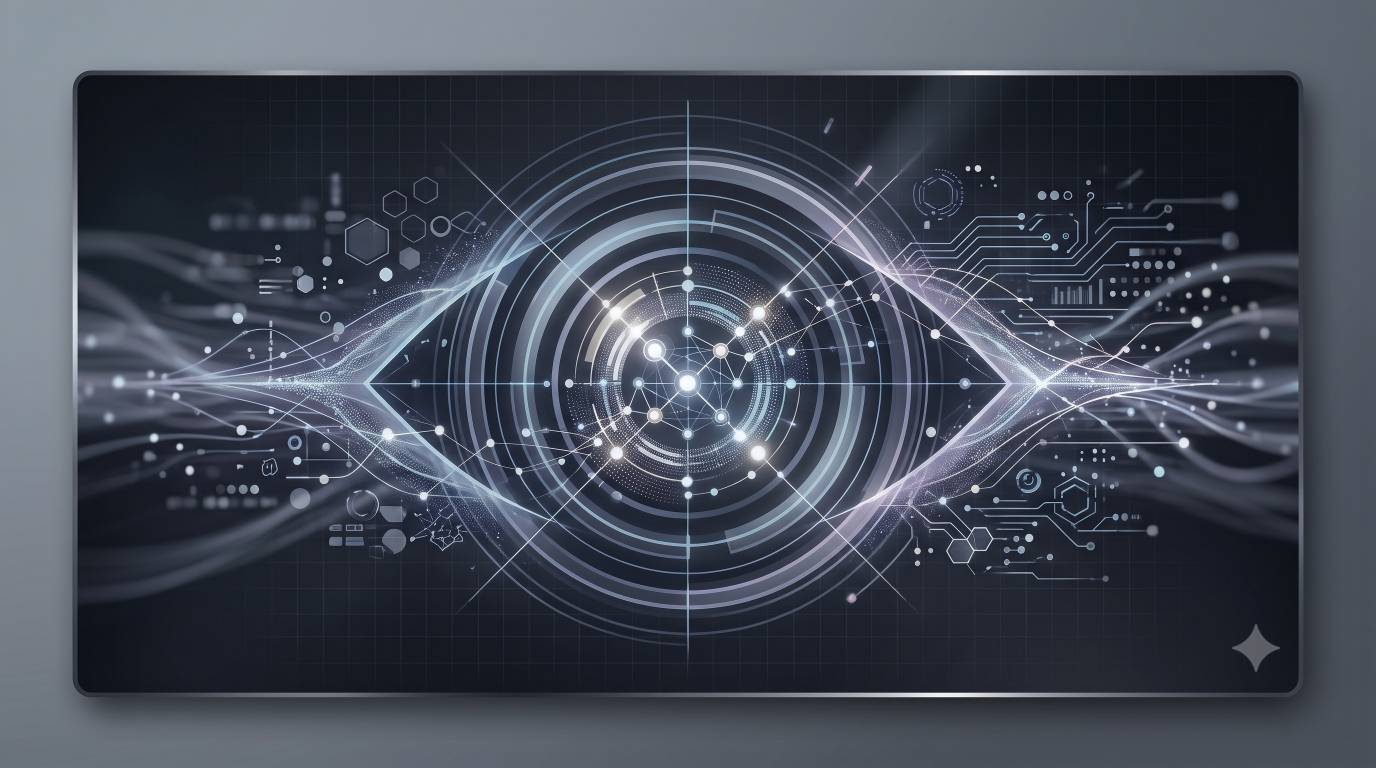
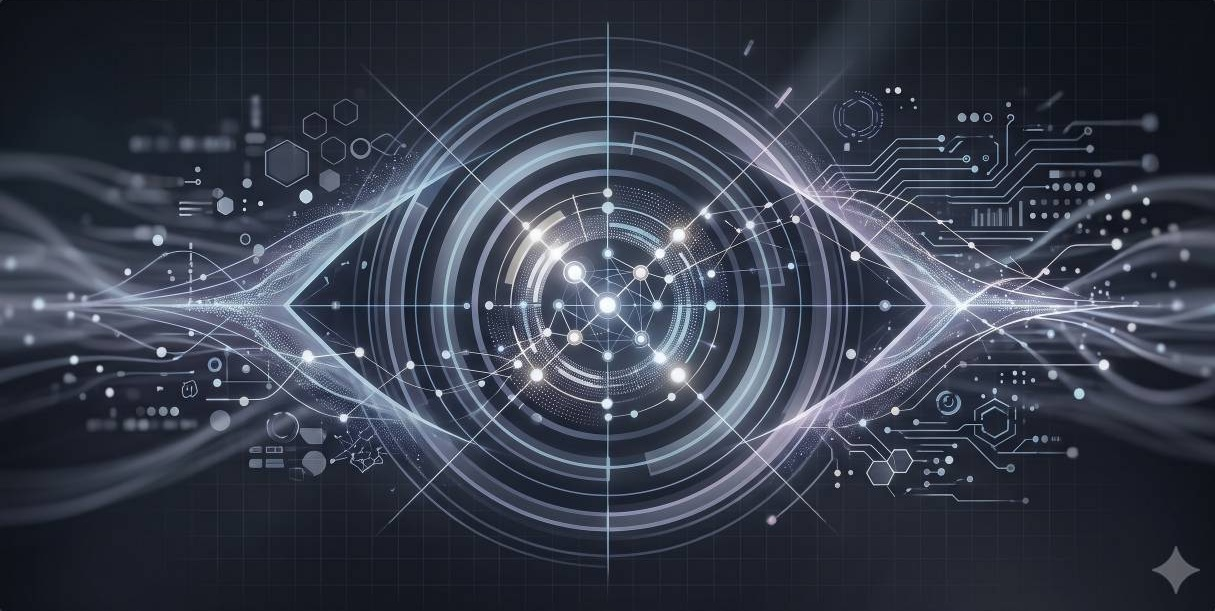
fix: zoom Vision AI cover to fill home card and bust cache

diff --git a/app/page.tsx b/app/page.tsx
@@ -38,7 +38,7 @@ export default async function HomePage() {
                   >
                     {/* eslint-disable-next-line @next/next/no-img-element */}
                     <img
-                      src={`${publicCoverUrl(item.slug, item.cover)}?v=20260827a`}
+                      src={`${publicCoverUrl(item.slug, item.cover)}?v=20260907a`}
                       alt={item.title}
                       decoding="async"
                       className="absolute inset-0 h-full w-full object-cover object-center transition duration-300 group-hover:scale-[1.03]"
